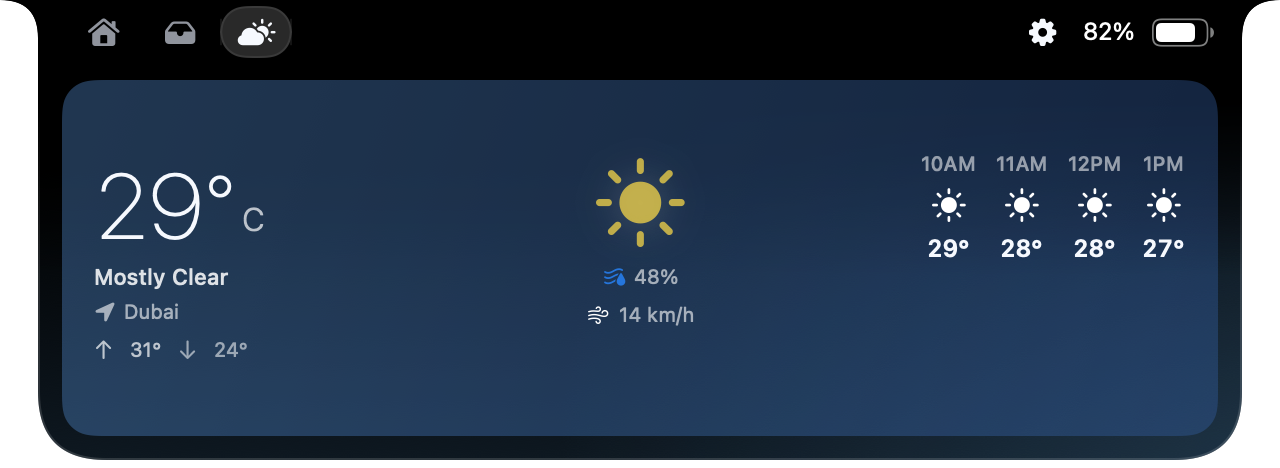
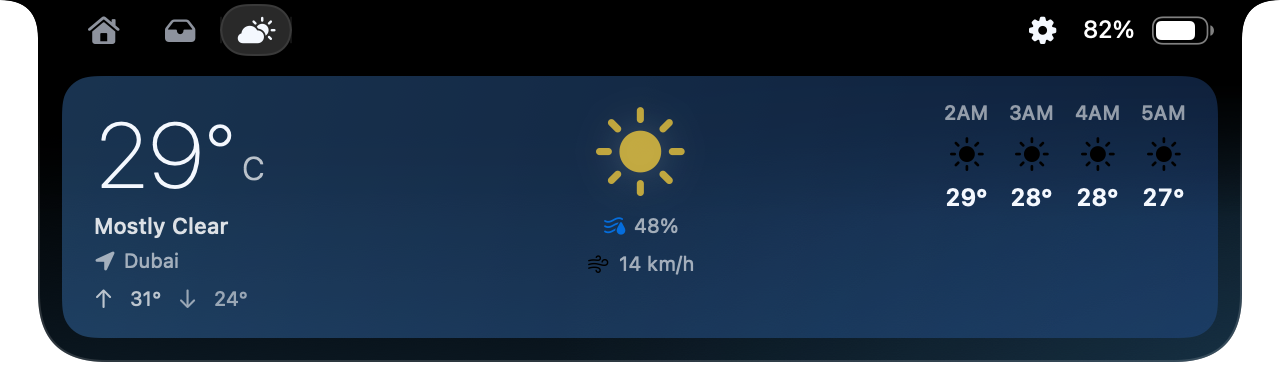
Retake the weather capture at its new, shorter height

diff --git a/components/landing/NotchStory.tsx b/components/landing/NotchStory.tsx
@@ -24,7 +24,7 @@ const items = [
   { id: "notes", h: 468, label: "Notes", src: "open-notes-composer.png", hue: 80, body: "The Notes widget: bold, lists, links and images, all kept on your Mac.", alt: "A note being edited in the notch, with a formatting toolbar and a bulleted list" },
   { id: "colour", h: 478, label: "Colour picker", src: "open-colour-picker.png", hue: 20, body: "The colour picker widget: pick off the screen, check contrast, copy.", alt: "The colour picker: a shade square, a hue slider, contrast grades on white and black, and HEX, RGB and HSL values" },
   { id: "builds", h: 468, label: "Builds", src: "open-builds.png", hue: 250, body: "The Builds widget: did the pipeline pass on GitHub or GitLab?", alt: "Builds: GitHub and GitLab runs, one running and one failed, with All, GitHub, GitLab and Local filters" },
-  { id: "weather", h: 468, label: "Weather", src: "open-weather.png", hue: 205, body: "Now, and the next few hours.", alt: "The weather tab: temperature, conditions and an hourly forecast" },
+  { id: "weather", h: 370, label: "Weather", src: "open-weather.png", hue: 205, body: "Now, and the next few hours.", alt: "The weather tab: temperature, conditions and an hourly forecast" },
   { id: "audio", h: 408, label: "Audio", src: "open-audio.png", hue: 300, body: "Volume, the output device and the microphone, in one place.", alt: "The audio tab: volume, output devices and input" },
 ] as const;
 
